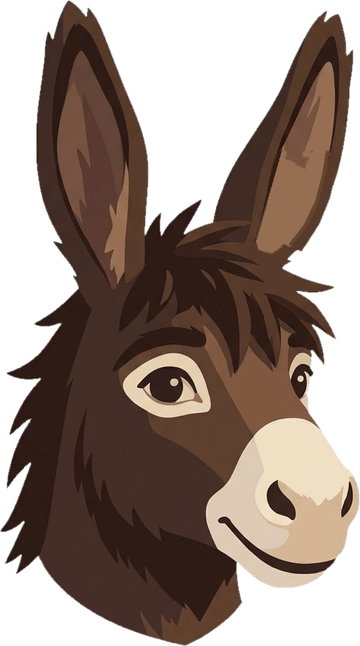
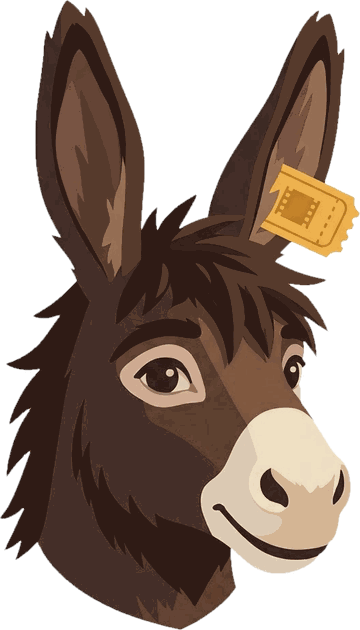
1.4.5 : tête de Baudet d'origine, contour des yeux recoloré
Claude-Session: https://claude.ai/code/session_01Adtgmz12UqnAWXU75W9qLR

diff --git a/style.css b/style.css
@@ -1216,9 +1216,9 @@ nav .espace-menu a[aria-current] { background: none; color: var(--accent); font-
 
 /* Pied de page (PC) */
 .pied { position: relative; margin-top: 40px; background: var(--surface); border-top: 1px solid var(--line); font-size: 15px; }
-.pied-tete { position: absolute; right: max(96px, calc(50% - 544px)); top: -118px; width: 100px; height: 118px; overflow: hidden; pointer-events: none; }
-.pied-tete img { width: 100px; display: block; transform: translateY(14px); transition: transform .5s cubic-bezier(.22,1,.36,1); }
-.pied:hover .pied-tete img { transform: translateY(0); }
+.pied-tete { position: absolute; right: max(96px, calc(50% - 544px)); top: -74px; width: 118px; height: 74px; overflow: hidden; pointer-events: none; }
+.pied-tete img { width: 118px; display: block; transform: translateY(28px); transition: transform .5s cubic-bezier(.22,1,.36,1); }
+.pied:hover .pied-tete img { transform: translateY(22px); } /* au-delà, le ticket jaune de l'oreille apparaîtrait */
 .pied-in { max-width: 1280px; margin: 0 auto; padding: 56px 64px 40px; display: grid; grid-template-columns: 1.4fr 1fr 1fr 1fr; gap: 40px; }
 .pied-marque { display: flex; flex-direction: column; gap: 14px; }
 .pied-marque p { margin: 0; max-width: 260px; }
@@ -1236,8 +1236,8 @@ body:not(.admin) .si-admin { display: none !important; }
 
 /* Pied de Mon espace (mobile) */
 .pied-m { position: relative; margin-top: 56px; padding: 20px 4px 4px; border-top: 1px solid var(--line); display: flex; flex-direction: column; gap: 14px; font-size: 14px; color: var(--muted); }
-.pied-m-tete { position: absolute; right: 12px; top: -88px; width: 74px; height: 88px; overflow: hidden; pointer-events: none; }
-.pied-m-tete img { width: 74px; display: block; transform: translateY(8px); }
+.pied-m-tete { position: absolute; right: 12px; top: -54px; width: 86px; height: 54px; overflow: hidden; pointer-events: none; }
+.pied-m-tete img { width: 86px; display: block; transform: translateY(20px); }
 .pied-m-liens { display: flex; flex-wrap: wrap; gap: 4px 20px; }
 .pied-m-liens a, .pied-m-liens button { display: inline-flex; align-items: center; min-height: 44px; padding: 0; border: 0; background: none; color: var(--text); font: inherit; font-weight: 500; text-decoration: underline; text-underline-offset: 3px; cursor: pointer; }
 .pied-m .credit-tmdb { font-size: 12px; line-height: 1.45; align-items: flex-start; }

diff --git a/app.js b/app.js
@@ -159,7 +159,7 @@ const CLES = [
 ];
 
 // Numéro affiché dans Réglages › À propos : majeur.mineur.correctif, augmenté à chaque mise en ligne.
-const VERSION = '1.4.4';
+const VERSION = '1.4.5';
 
 function pageReglages() {
   const theme = reglages.theme || 'auto';

diff --git a/ETAT.md b/ETAT.md
@@ -61,7 +61,7 @@ Mis à jour le 20 novembre 2026.
 - Fonctions Supabase déployées le 20 novembre : `comptes` (liste, inviter, retirer, supprimer son compte) et `sources` (relais TMDB / OMDb avec les clés de l'administrateur). Clé service_role fournie par Supabase côté serveur.
 - Envoi des e-mails : le service intégré de Supabase n'envoie qu'aux membres de l'équipe (2 / heure) ; brancher un SMTP (Gmail ou Resend) pour inviter d'autres personnes.
 - Auth › URL Configuration : Site URL et Redirect URLs = https://jukanox123.github.io/donktv/
-- Tête de Baudet seule : img/baudet-tete.png (20 novembre, image Gemini de Valentin, ticket jaune retiré, détourée) pour le pied de page et le saut de « Ton avis ». Logo TMDB : img/tmdb.png (20 novembre). Région : eu-west-1 (Irlande).
+- Tête de Baudet seule : img/baudet-tete.png (20 novembre, image Gemini de Valentin détourée, contour crème des yeux passé au beige rosé #CFAA90 des autres ânes ; le ticket jaune reste sur l'oreille, caché dans le pied de page en ne montrant que le bout des oreilles) pour le pied de page et le saut de « Ton avis ». Logo TMDB : img/tmdb.png (20 novembre). Région : eu-west-1 (Irlande).
 
 ## Écarts assumés par rapport aux maquettes
 - Mobile : barre du bas Accueil · Collection · + · À voir · Mon espace ; tops, stats, rétros et réglages via Mon espace.
